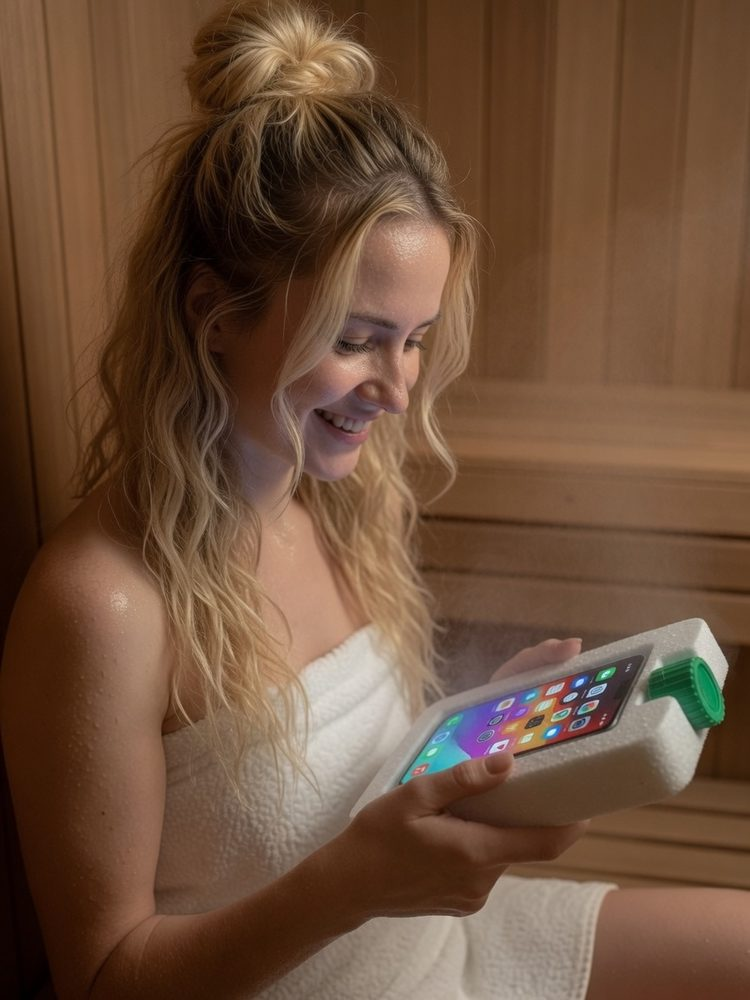
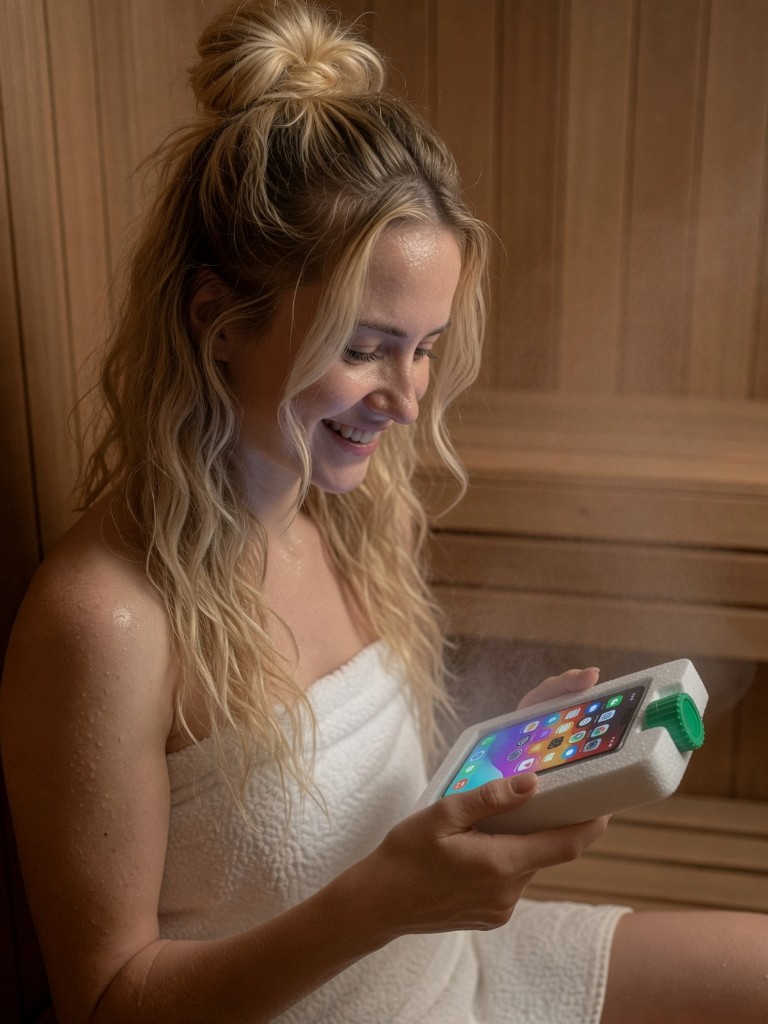
Swap the sauna proof photo for the wider shot.
The live proof section was still using the tighter crop of the same test.

diff --git a/index.html b/index.html
@@ -251,7 +251,7 @@
   <div class="wrap">
     <div class="proof-grid reveal">
       <figure class="proof-photo">
-        <img src="sauna.jpg" alt="A woman keeping her phone working inside a hot sauna using iChillPod" loading="lazy">
+        <img src="sauna.jpg?v=2" alt="A woman keeping her phone working inside a hot sauna using iChillPod" loading="lazy">
         <figcaption>Our real 180&deg;F sauna test.</figcaption>
       </figure>
       <div>
